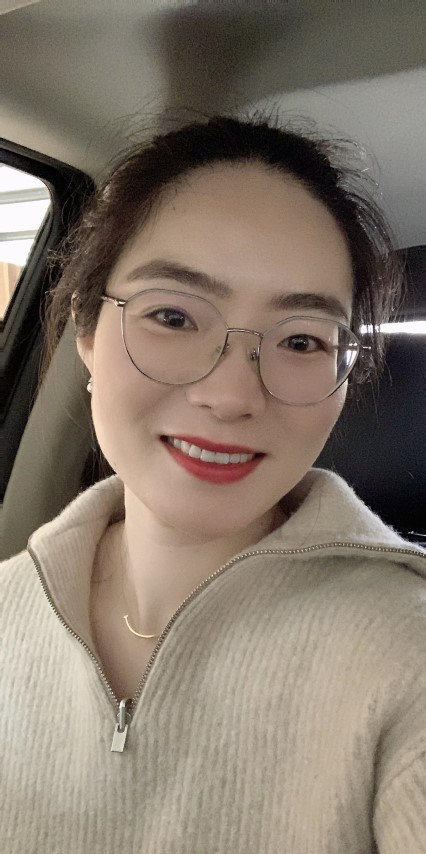
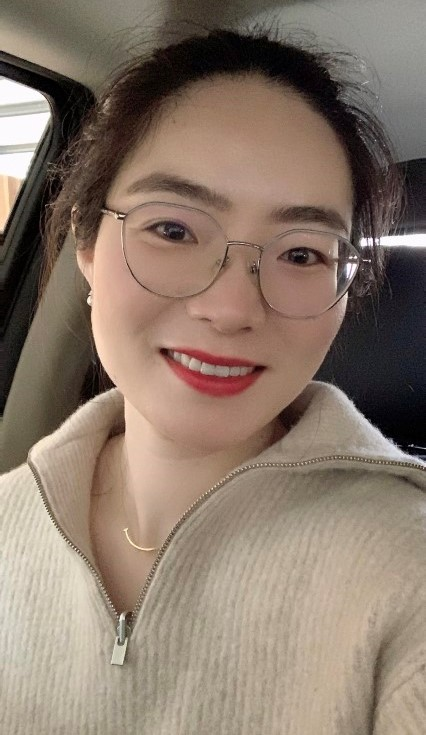
Add files via upload

diff --git a/index.html b/index.html
@@ -18,7 +18,7 @@
             <div class="left-header">
                 <div class="h-shape"></div>
                 <div class="image">
-                    <img src="img/ping2.jpg" alt="">
+                    <img src="img/ping1.jpg" alt="">
                 </div>
             </div>
             <div class="right-header">
@@ -79,9 +79,11 @@
                         <i class="fa-solid fa-lock-open"></i>
                     </div>
                     
-                    <h5>Web Developer<span> - Vircrosoft</span></h5>
+                    <h5>Prison Dodgeball Game</h5>
                     <p>
-                        Lorem ipsum dolor sit amet consectetur adipisicing elit. Saepe quasi vero fugit.
+                        Implemented Artificial Intelligence (AI) framework and basic behavior. <br></br>
+                        Programmed ballistic trajectory prediction resolution, Finite State Machine (FSM), and pathfinding to control team agents using C#. <br></br>
+                        Designed 3D characters and game mechanics, and integrated graphical objects with the physics system.
                     </p>
                 </div>
                 <div class="timeline-item">
@@ -89,9 +91,25 @@
                         <i class="fa-solid fa-lock-open"></i>
                     </div>
                     
-                    <h5>Software Engineer<span> - Boogle, Inc.</span></h5>
+                    <h5>Stock Trading Strategy</h5>
                     <p>
-                        Lorem ipsum dolor sit amet consectetur adipisicing elit. Saepe quasi vero fugit.
+                        Coded to allocate a portfolio’s funds to optimize portfolio performance using Python. <br></br>
+                        Created a market simulator that accepts trading orders and keeps track of a portfolio’s value over time using Python. <br></br>
+                        Implemented two trading strategies to compare their performance with 3 selected indicator evaluations.
+                        Analyzed system performance and trading results to find ways to improve efficiency. <br></br>
+                        Utilized machine learning framework to predict the future stock price.
+                    </p>
+                </div>
+                <div class="timeline-item">
+                    <div class="p-icon">
+                        <i class="fa-solid fa-lock-open"></i>
+                    </div>
+                    
+                    <h5>Autonomous Drone</h5>
+                    <p>
+                        Planned, defined, and execute autonomous drone project with researched solutions. <br></br>
+                        Built a mapping system with the Simultaneous Localization and Mapping (SLAM) method to process a series of landmark measurements and movement updates. <br></br>
+                        Programmed robot intelligence to navigate the drone by solving tracking / planning / controlling problems using Python, which localizes the drone and makes it find the treasure’s location while avoiding obstacles.
                     </p>
                 </div>
             </div>
@@ -104,20 +122,29 @@
                     <div class="tl-icon">
                         <i class="fa-solid fa-briefcase"></i>
                     </div>
-                    <p class="tl-duration">2010 - present</p>
-                    <h5>Web Developer<span> - Vircrosoft</span></h5>
+                    <p class="tl-duration">2017 - 2021</p>
+                    <h5>Design Engineer II<span> - HA Automotive Systems, Inc.</span></h5>
                     <p>
-                        Lorem ipsum dolor sit amet consectetur adipisicing elit. Saepe quasi vero fugit.
+                        Directly communicates with OEM studio team and DRE (Design & Release Engineer) to follow product life cycle timing chart to form a design to final product concept. <br></br>
+                        Assisted in the design of automotive lighting parts using NX and CATIA for various OEMs and released math data for DRE (Design & Release Engineer) to review. <br></br>
+                        Reported program open issues and timing to DRE in weekly PDT (Product Development Team) meeting. <br></br>
+                        Participate in communication of optical feasibility study, plastic injection molding processes, GD&T, surface treatment, DVP&R, and DFMEA of exterior lighting parts. <br></br>
+                        Provided suggestions and support to clients through emails, phone calls, and on-site visits to meet customer expectations. <br></br>
+
                     </p>
                 </div>
                 <div class="timeline-item">
                     <div class="tl-icon">
                         <i class="fa-solid fa-briefcase"></i>
                     </div>
-                    <p class="tl-duration">2008 - 2011</p>
-                    <h5>Software Engineer<span> - Boogle, Inc.</span></h5>
+                    <p class="tl-duration">2017 - 2019</p>
+                    <h5>Autonomous Vehicle Assistant <span> - TG Automotive Group LLC</span></h5>
                     <p>
-                        Lorem ipsum dolor sit amet consectetur adipisicing elit. Saepe quasi vero fugit.
+                        Worked with team to optimize in-house ADAS system. <br></br>
+                        Implemented algorithm to break down the vehicle backup monitoring system into two systems: target allocating and goal aiming. <br></br>
+                        Simplified the coding for backup source coding for almost 40%. <br></br>
+                        Interfaced with research and advanced engineering teams to bring new concepts to production. <br></br>
+
                     </p>
                 </div>
             </div>
@@ -201,7 +228,7 @@
                         </div>
                     </div>
                     <div class="right-contact">
-                        <form action="" class="contact-form">
+                        <form action="mailto:pingchen0827@gmail.com" class="contact-form">
                             <div class="input-control i-c-2">
                                 <input type="text" required placeholder="YOUR NAME">
                                 <input type="email" required placeholder="YOUR EMAIL">
